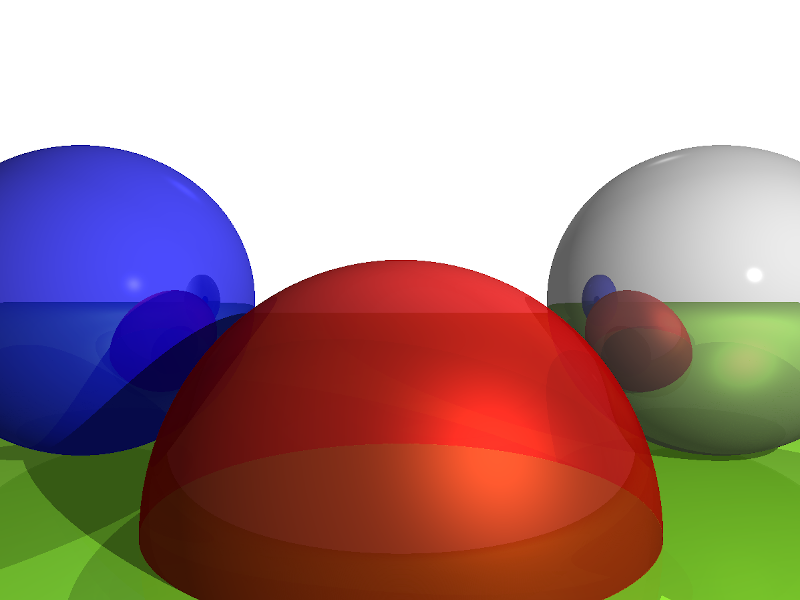
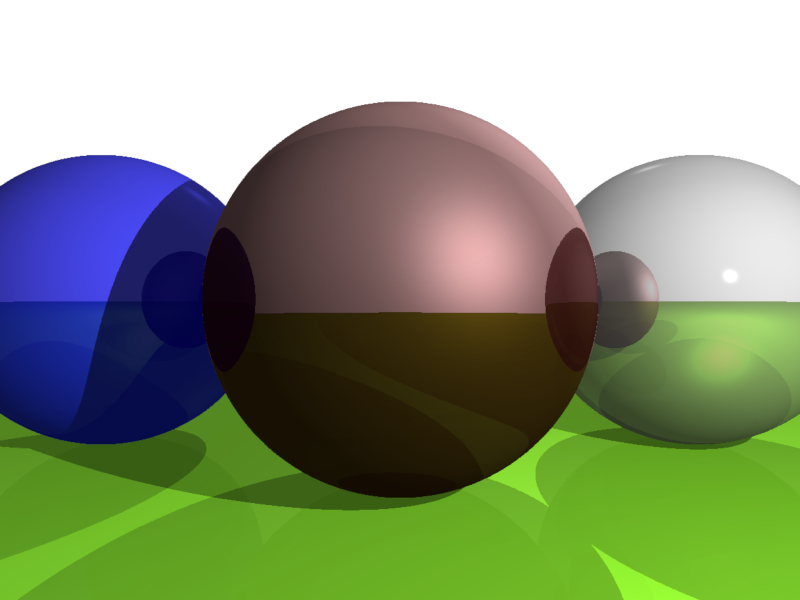
Add refraction, update scene and other params

diff --git a/src/raytrace.hpp b/src/raytrace.hpp
@@ -11,7 +11,7 @@
 #include "scene.hpp"
 
 constexpr float kEpsilon = 0.001F;
-constexpr unsigned int kMaxRecursionDepth = 2U;
+constexpr unsigned int kMaxRecursionDepth = 3U;
 
 // Scale the provided color struct (excluding alpha) by the provided intensity, with saturation
 sf::Color scale_color(const sf::Color& color, float intensity) {
@@ -41,19 +41,19 @@ std::optional<RayShapeIntersectData> calc_ray_shape_intersect(const Ray& ray,
 
     // TODO: iterate across all shapes as added
     for (const Shape& shape_object : kSceneSpheres) {
-        // Get ray-shape_object intersect points, if any
+        // Get ray-shape intersection points, if any
         const Sphere::RayIntersect intersect_points = shape_object.calc_ray_intersect(ray);
         for (float t : intersect_points) {
-            // Check intersect point against provided range
+            // Check intersection point against provided range
             if ((t > t_min) && (t < t_max)) {
                 if (find_closest) {
-                    // Check if intersect is closer than any previous, then continue
+                    // Check if intersection is closer than any previous, then continue
                     if (t < closest_t) {
                         closest_t = t;
                         closest_shape = shape_object;
                     }
                 } else {
-                    // Any intersect is sufficient; break early
+                    // Any intersection is sufficient; break early
                     closest_t = t;
                     closest_shape = shape_object;
                     break;
@@ -120,6 +120,41 @@ float compute_lighting(vec::Vec3f point, vec::Vec3f normal, vec::Vec3f ray, floa
     return intensity;
 }
 
+vec::Vec3f calc_refraction_vector(const vec::Vec3f& incoming,
+                                  const vec::Vec3f& normal,
+                                  float refractivity) {
+    if (refractivity <= 0.0F) {
+        return incoming;
+    }
+
+    // Determine if light is entering or exiting object with non-zero refractivity
+    const bool entering_shape = dot(normal, incoming) < 0.0F;
+
+    // Normalize inputs and set signs according to whether we're entering or exiting
+    const vec::Vec3f arrival_unit = -incoming.normalize();
+    const vec::Vec3f normal_unit = entering_shape ? normal.normalize() : -normal.normalize();
+    const float refractive_ratio = entering_shape ?
+                                   1.0F / (1.0F + refractivity) :
+                                   1.0F + refractivity;
+
+    // Compute refraction transmission vector
+    const float normal_dot_arrival = dot(normal_unit, arrival_unit);
+    const float temp = 1.0F - (normal_dot_arrival * normal_dot_arrival);
+    const float in_radical = 1.0F - (refractive_ratio * refractive_ratio * temp);
+
+    // Handle total internal reflection case
+    if (in_radical < 0.0F) {
+        return reflect_across_normal(arrival_unit, normal_unit);
+    }
+
+    const float radical = std::sqrt(in_radical);
+
+    const vec::Vec3f parallel = (refractive_ratio * normal_dot_arrival - radical) * normal_unit;
+    const vec::Vec3f perpendicular = -refractive_ratio * arrival_unit;
+
+    return parallel + perpendicular;
+}
+
 // Trace ray using provided point, vector, and independent variable range.
 // Calculate the color and lighting for the closest intersect point, if any.
 sf::Color trace_ray(const Ray& ray,
@@ -138,32 +173,37 @@ sf::Color trace_ray(const Ray& ray,
         const Material& material = closest_intersect->shape.material;
 
         // Handle reflectivity via recursive raytracing with a reflected vector
-        const float reflectiveness = material.reflectiveness;
+        const float reflectivity = material.reflectivity;
         sf::Color reflected_color_blend{};
-        if ((recursion_depth > 0) && (reflectiveness > 0.0F)) {
+        if ((recursion_depth > 0) && (reflectivity > 0.0F)) {
             const Ray reflected_ray = {intersect_point, reflect_across_normal(-ray.vector, normal)};
             const sf::Color reflected_color = trace_ray(reflected_ray,
                                                         kEpsilon * closest_intersect->t,
                                                         std::numeric_limits<float>::infinity(),
-                                                        recursion_depth - 1);
-            reflected_color_blend = scale_color(reflected_color, reflectiveness);
+                                                        recursion_depth-1);
+            reflected_color_blend = scale_color(reflected_color, reflectivity);
         }
 
         // Handle transparency via recursive raytracing with a continuing vector
         const float transparency = material.transparency;
         sf::Color transparent_color_blend{};
-        if ((transparency > 0.0F)) {
-            const Ray transparent_ray = {intersect_point, ray.vector};
-            const sf::Color transparent_color = trace_ray(transparent_ray,
+        if ((recursion_depth > 0) && (transparency > 0.0F)) {
+            // TODO: determine ray direction based on refractivity
+
+            const Ray continuing_ray = {intersect_point,
+                                        calc_refraction_vector(ray.vector,
+                                                               normal,
+                                                               material.refractivity)};
+            const sf::Color transparent_color = trace_ray(continuing_ray,
                                                           kEpsilon,
                                                           std::numeric_limits<float>::infinity(),
-                                                          0); // No reflectivity in recursive calls
+                                                          recursion_depth-1);
             transparent_color_blend = scale_color(transparent_color, transparency);
         }
 
         // Blend local color with reflected and transparent colors
         const sf::Color local_color_blend = scale_color(material.color,
-                                                        1.0F - reflectiveness - transparency);
+                                                        1.0F - reflectivity - transparency);
         const sf::Color blend = local_color_blend + reflected_color_blend + transparent_color_blend;
 
         // Compute and apply lighting intensity to blended color

diff --git a/src/scene.hpp b/src/scene.hpp
@@ -19,8 +19,8 @@ constexpr vec::Vec3f kOrigin{0.0F, 0.0F, 0.0F};
 // Scene cameras
 const std::vector<Camera> kSceneCameras {{
     Camera::make(vec::Mat3f::identity(), kOrigin),
-    Camera::make(vec::Transform3f::rotate_y(M_PI/4.0), {3.0F, 0.0F, 1.0F}),
-    Camera::make(vec::Transform3f::rotate_y(-M_PI/4.0), {-3.0F, 0.0F, 1.0F}),
+    Camera::make(vec::Transform3f::rotate_y(M_PI/8.0), {2.0F, 0.0F, 0.0F}),
+    Camera::make(vec::Transform3f::rotate_y(-M_PI/8.0), {-2.0F, 0.0F, 0.0F}),
 }};
 
 // Scene materials
@@ -30,8 +30,9 @@ const std::unordered_map<std::string, Material> kSceneMaterials {
         {
             .color = sf::Color::Red,
             .specularity = 5.0F,
-            .reflectiveness = 0.1F,
-            .transparency = 0.4F,
+            .reflectivity = 0.0F,
+            .transparency = 0.9F,
+            .refractivity = 0.02F,
         }
     },
     {
@@ -39,7 +40,7 @@ const std::unordered_map<std::string, Material> kSceneMaterials {
         {
             .color = sf::Color::Blue,
             .specularity = 250.0F,
-            .reflectiveness = 0.3F,
+            .reflectivity = 0.3F,
         }
     },
     {
@@ -47,7 +48,7 @@ const std::unordered_map<std::string, Material> kSceneMaterials {
         {
             .color = {210, 210, 210},
             .specularity = 500.0F,
-            .reflectiveness = 0.6F,
+            .reflectivity = 0.6F,
         }
     },
     {
@@ -55,14 +56,14 @@ const std::unordered_map<std::string, Material> kSceneMaterials {
         {
             .color = {150, 250, 50},
             .specularity = 10.0F,
-            .reflectiveness = 0.1F,
+            .reflectivity = 0.05F,
         }
     },
 };
 
 // Scene spheres
 const std::vector<Sphere> kSceneSpheres {{
-    Sphere(vec::Vec3f{0.0F, -1.0F, 3.0F}, 1.2F, kSceneMaterials.at("red_translucent")),
+    Sphere(vec::Vec3f{0.0F, 0.0F, 3.0F}, 1.0F, kSceneMaterials.at("red_translucent")),
     Sphere(vec::Vec3f{2.0F, 0.0F, 4.0F}, 1.0F, kSceneMaterials.at("silver")),
     Sphere(vec::Vec3f{-2.0F, 0.0F, 4.0F}, 1.0F, kSceneMaterials.at("blue")),
     Sphere(vec::Vec3f{0.0F, -5001.0F, 0.0F}, 5000.0F, kSceneMaterials.at("green_dull")),

diff --git a/src/primitives.hpp b/src/primitives.hpp
@@ -30,9 +30,10 @@ struct Ray {
 struct Material {
     sf::Color color;
     float specularity;    // [0.0F to disable, else positive]
-    // Note: sum of reflectiveness and transparency must be <= 1.0F
-    float reflectiveness; // [0.0F - 1.0F]
+    // Note: sum of reflectivity and transparency must be <= 1.0F
+    float reflectivity;   // [0.0F - 1.0F]
     float transparency;   // [0.0F - 1.0F]
+    float refractivity;   // [0.0F to disable, else positive]
 };
 
 struct Shape {

diff --git a/src/main.cpp b/src/main.cpp
@@ -22,7 +22,7 @@ constexpr int kCanvasHeight = 600U;
 
 constexpr float kViewportWidth = 1.0F;
 constexpr float kViewportHeight = 0.75F;
-constexpr float kViewportDepth = 0.75F;
+constexpr float kViewportDepth = 0.70F;
 
 // Convert the provided canvas pixel coordinates to point on viewport plane
 vec::Vec3f canvas_to_viewport(int x, int y) {

diff --git a/src/canvas.hpp b/src/canvas.hpp
@@ -35,6 +35,7 @@ public:
     // Must be called after placing pixels for changes to take effect
     void snapshot() {
         texture_.loadFromImage(image_);
+        texture_.setSmooth(true);
     }
 
 private:
